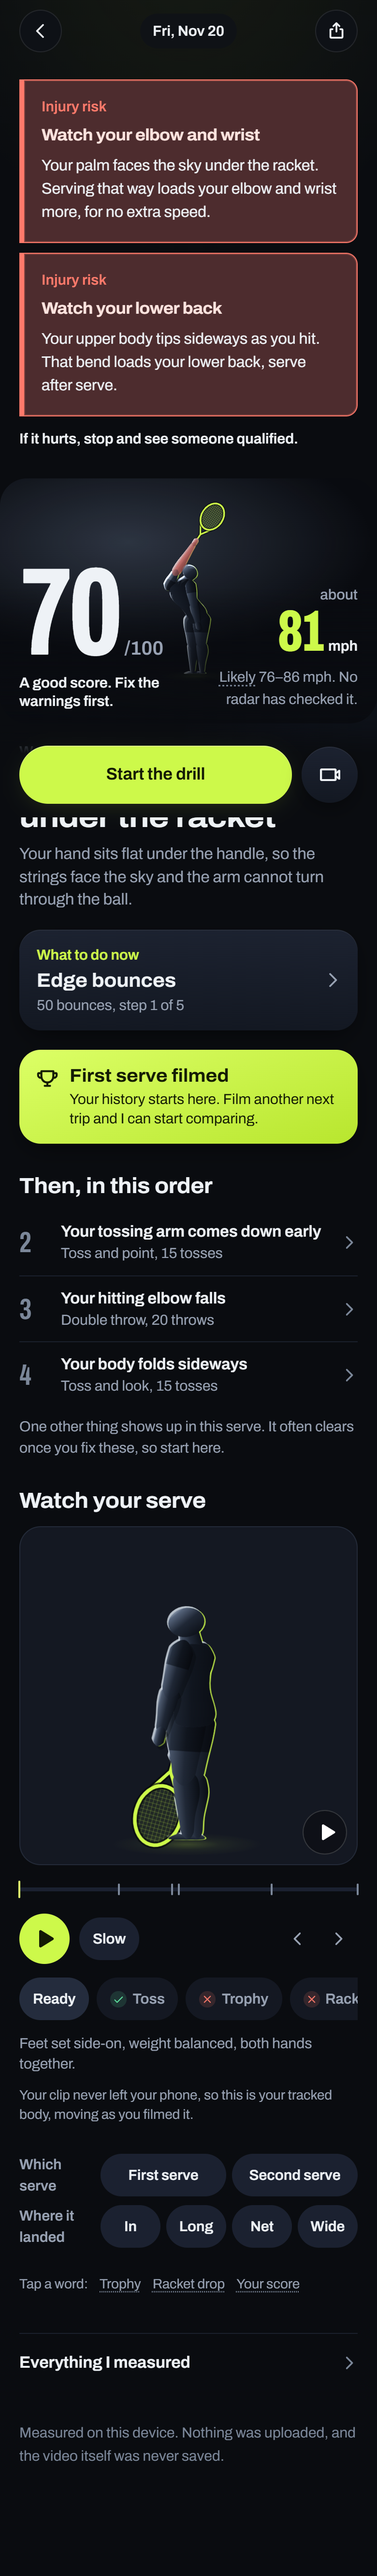
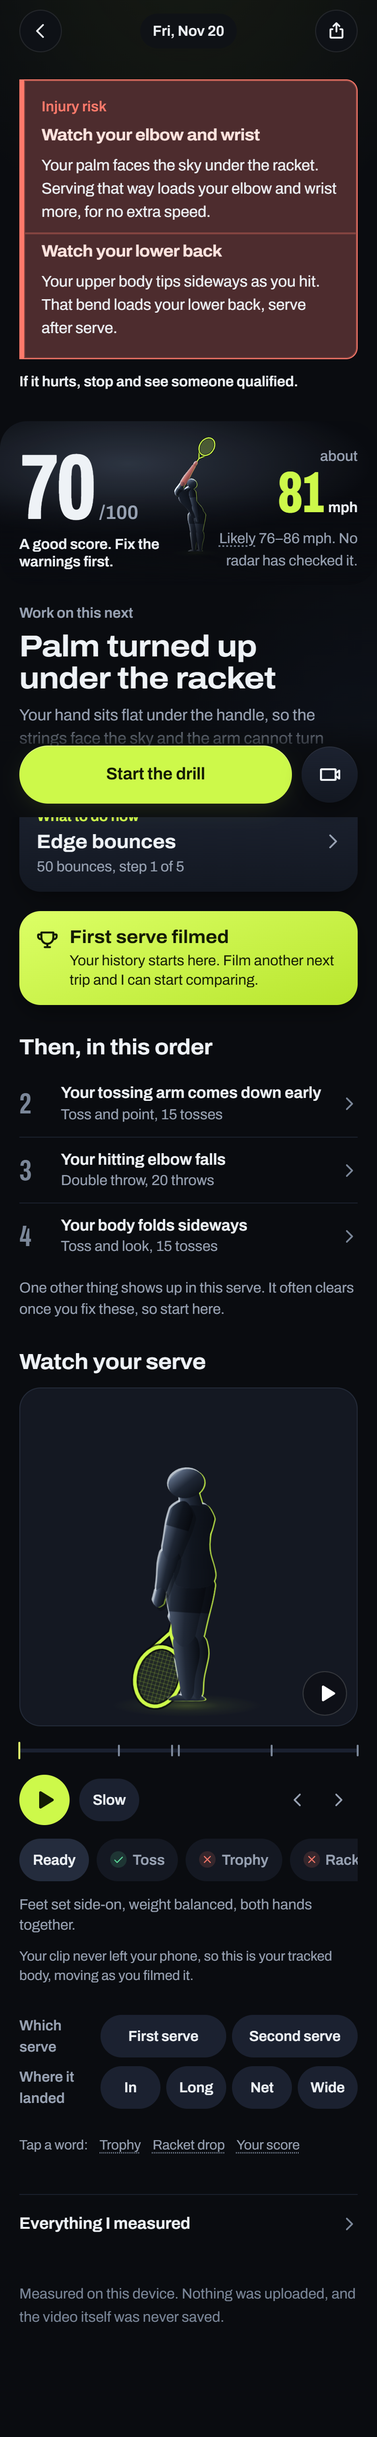
Keep the fix clear of the action bar under two injury warnings on a phone, and keep every figure on the same line as its unit

diff --git a/src/lib/__tests__/speedCopy.test.ts b/src/lib/__tests__/speedCopy.test.ts
@@ -7,7 +7,7 @@
 import fsUntyped from 'fs'
 // @ts-expect-error - node's path, and this project carries no @types/node
 import pathUntyped from 'path'
-import { SPEED_MISS_LINE, SPEED_SCALE, defaultSpeedUnit, fastestLine, serveNumberSpeedLine, speedFigures, speedGlanceLine, speedTrendLine } from '../speedCopy'
+import { SPEED_MISS_LINE, SPEED_SCALE, aboutSpeed, aboutSpeedShort, defaultSpeedUnit, fastestLine, serveNumberSpeedLine, speedFigures, speedGlanceLine, speedTrendLine } from '../speedCopy'
 import { cueIssues } from '../analysis/voice'
 import { assert, check, heading, report } from '../analysis/__tests__/harness'
 
@@ -60,9 +60,21 @@ check('a reading off either end of the scale is drawn at the end, not past it', 
   assert(f.at.low === 1 && f.at.best === 1 && f.at.high === 1, JSON.stringify(f.at))
 })
 
+/** A line as read, with the unbreakable space between a figure and its unit shown as a space. */
+const plain = (s: string) => s.replace(/\u00a0/g, ' ')
+
 check('the glance says the reading and its range in one line', () => {
   const line = speedGlanceLine(speedFigures({ ms: 36.1, low: 34.04, high: 38.36 }, 'kmh'))
-  assert(line === 'About 130 km/h off the racket, likely 122–139.', line)
+  assert(plain(line) === 'About 130 km/h off the racket, likely 122–139.', line)
+})
+
+check('a figure and its unit never break across a line (N7.8)', () => {
+  const s = { ms: 36.1, low: 34.04, high: 38.36 }
+  for (const unit of ['kmh', 'mph'] as const) {
+    for (const line of [speedGlanceLine(speedFigures(s, unit)), aboutSpeed(s, unit), aboutSpeedShort(s, unit)]) {
+      assert(/\d\u00a0(km\/h|mph)/.test(line) && !/\d (km\/h|mph)/.test(line), `"${line}" can break between the figure and its unit`)
+    }
+  }
 })
 
 heading('A reading beside the coaching, never part of it')
@@ -99,10 +111,10 @@ heading('Speed over time, in words (N2.8)')
 check('the record, the trend and the two serves each say their ranges, in the player’s unit', () => {
   const a = { ms: 36.1, low: 34.04, high: 38.36 }
   const b = { ms: 40, low: 38.5, high: 41.6 }
-  assert(fastestLine({ ...a, isNew: true }, 'kmh') === 'New fastest serve: about 130 km/h, likely 122–139.', fastestLine({ ...a, isNew: true }, 'kmh'))
-  assert(fastestLine({ ...a, isNew: false }, 'mph').startsWith('Fastest serve: about 81 mph'), 'the standing record reads as new')
+  assert(plain(fastestLine({ ...a, isNew: true }, 'kmh')) === 'New fastest serve: about 130 km/h, likely 122–139.', fastestLine({ ...a, isNew: true }, 'kmh'))
+  assert(plain(fastestLine({ ...a, isNew: false }, 'mph')).startsWith('Fastest serve: about 81 mph'), 'the standing record reads as new')
   const t = speedTrendLine({ direction: 'faster', now: b, then: a }, 'kmh')
-  assert(t === 'Serving faster than your last trip: about 144 km/h, likely 138–150, against about 130 km/h, likely 122–139.', t)
+  assert(plain(t) === 'Serving faster than your last trip: about 144 km/h, likely 138–150, against about 130 km/h, likely 122–139.', t)
   const slow = serveNumberSpeedLine({ first: b, second: a, direction: 'slower' }, 'kmh')
   assert(!/fault|too slow/i.test(slow) && slow.startsWith('First serves about 144'), slow)
   assert(serveNumberSpeedLine({ first: a, second: b, direction: 'faster' }, 'kmh').endsWith('Your second serve is the quicker one.'), 'a quicker second serve is not said')

diff --git a/src/screens/Report.tsx b/src/screens/Report.tsx
@@ -24,7 +24,7 @@ import type { Moment } from '../lib/moments'
 import { earcon } from '../lib/earcon'
 import MomentCard from '../components/MomentCard'
 import { useCountUp } from '../components/useCountUp'
-import { SPEED_MISS_LINE, defaultSpeedUnit, speedFigures } from '../lib/speedCopy'
+import { NBSP, SPEED_MISS_LINE, defaultSpeedUnit, speedFigures } from '../lib/speedCopy'
 import { SOFT_READ, readQuality, VERDICT } from '../components/statusLabels'
 import ModelServe from '../components/ModelServe'
 import Term from '../components/Term'
@@ -501,7 +501,7 @@ export default function Report({
 
       <section className="hero" data-settled={settled || !fresh ? 'true' : 'false'}>
         <div
-          className={`hero-stage${injuries.length ? ' hero-stage--short' : ''}${studio ? ' hero-stage--panel' : ''}`}
+          className={`hero-stage${injuries.length ? ' hero-stage--short' : ''}${injuries.length > 1 ? ' hero-stage--shorter' : ''}${studio ? ' hero-stage--panel' : ''}`}
           onClick={() => setSettled(true)}
         >
           {fresh && !settled && !studio && (
@@ -539,11 +539,15 @@ export default function Report({
                 <p className="hero-speed-figure">
                   <span className="hero-speed-about">about</span>
                   <span className="hero-speed-line">
-                    <strong>{figures.best}</strong> {figures.unit}
+                    <strong>{figures.best}</strong>
+                    {NBSP}
+                    {figures.unit}
                   </span>
                 </p>
                 <p className="hero-speed-range">
-                  <Term id="likelyRange">Likely</Term> {figures.low}–{figures.high} {figures.unit}. No radar has checked it.
+                  <Term id="likelyRange">Likely</Term> {figures.low}–{figures.high}
+                  {NBSP}
+                  {figures.unit}. No radar has checked it.
                 </p>
               </section>
             )}

diff --git a/src/lib/__tests__/engineDownload.test.ts b/src/lib/__tests__/engineDownload.test.ts
@@ -241,15 +241,15 @@ check('settings says the size, the bar in megabytes, and the warning before the 
   const noop = () => {}
   const row = (ready: boolean, warming?: OfflineWarmup, metered?: 'saveData' | 'cellular') =>
     renderToStaticMarkup(createElement(OfflineRow, { ready, warming, metered, onDownload: noop }))
-  assert(row(false).includes('Download for no signal, 57 MB'), 'the button lost its size')
-  assert(row(false, { stage: 'downloading', ratio: 0.4, loadedMb: 23, totalMb: 57 }).includes('Downloading, 23 of 57 MB'), 'the bar is not in megabytes')
+  assert(row(false).includes('Download for no signal, 57\u00a0MB'), 'the button lost its size')
+  assert(row(false, { stage: 'downloading', ratio: 0.4, loadedMb: 23, totalMb: 57 }).includes('Downloading, 23 of 57\u00a0MB'), 'the bar is not in megabytes')
   assert(row(false, { stage: 'failed', stalled: true }).includes('The download stopped. Try again'), 'a stall reads as a refusal')
   assert(row(false, undefined, 'cellular').includes('wait for Wi-Fi'), 'no warning on mobile data')
   assert(row(true).includes('Ready to use with no signal'), 'a downloaded coach does not say so')
   const first = renderToStaticMarkup(
     createElement(Home, { sessions: [], offlineReady: false, sessionsLoaded: true, prefs: DEFAULTS, onPrefs: noop, onFilm: noop, onOpen: noop, onShowHistory: noop, onShowSettings: noop, onShowProgress: noop, onShowExample: noop }),
   )
-  assert(first.includes('downloads the coach once, 57 MB'), 'a new player is not told the size before the first serve')
+  assert(first.includes('downloads the coach once, 57\u00a0MB'), 'a new player is not told the size before the first serve')
 })
 
 report()

diff --git a/src/components/AppSheets.tsx b/src/components/AppSheets.tsx
@@ -4,7 +4,7 @@ import '../styles/blocks.css'
 import HandednessPicker from './HandednessPicker'
 import { Icon, Sheet } from './primitives'
 import { engineMegabytes } from '../lib/engineManifest'
-import { defaultSpeedUnit } from '../lib/speedCopy'
+import { NBSP, defaultSpeedUnit } from '../lib/speedCopy'
 import type { OfflineWarmup } from './useOfflineWarmup'
 import { writePrefs, type Prefs } from '../lib/storage/prefs'
 import { deviceNoun } from '../lib/device'
@@ -51,7 +51,7 @@ export function OfflineRow({ ready, warming, metered, onDownload }: Props['offli
   const label =
     warming?.stage === 'downloading'
       ? warming.totalMb
-        ? `Downloading, ${warming.loadedMb ?? 0} of ${warming.totalMb} MB`
+        ? `Downloading, ${warming.loadedMb ?? 0} of ${warming.totalMb}${NBSP}MB`
         : `Downloading, ${Math.round((warming.ratio ?? 0) * 100)}%`
       : warming?.stage === 'starting'
         ? 'Setting up'
@@ -61,7 +61,7 @@ export function OfflineRow({ ready, warming, metered, onDownload }: Props['offli
             : 'Download failed. Try again'
           : warming?.stage === 'unkept'
             ? 'This browser will not keep the download'
-            : `Download for no signal, ${size} MB`
+            : `Download for no signal, ${size}${NBSP}MB`
   return (
     <>
       <button className="btn btn--ghost btn--full" onClick={onDownload} disabled={busy}>

diff --git a/src/lib/speedCopy.ts b/src/lib/speedCopy.ts
@@ -77,9 +77,15 @@ export function speedSpokenLine(f: Pick<SpeedFigures, 'best'>, unit: SpeedUnit):
   return `About ${f.best} ${UNIT_SPOKEN[unit]}.`
 }
 
+/**
+ * The space between a figure and its unit, which never breaks (N7.8): "81" at
+ * the end of one line and "mph" at the start of the next reads as two things.
+ */
+export const NBSP = '\u00a0'
+
 /** The glance's line for a reading. */
 export function speedGlanceLine(f: SpeedFigures): string {
-  return `About ${f.best} ${f.unit} off the racket, likely ${f.low}–${f.high}.`
+  return `About ${f.best}${NBSP}${f.unit} off the racket, likely ${f.low}–${f.high}.`
 }
 
 type Ranged = Pick<ServeSpeed, 'ms' | 'low' | 'high'>
@@ -87,13 +93,13 @@ type Ranged = Pick<ServeSpeed, 'ms' | 'low' | 'high'>
 /** A reading as "about 130 km/h, likely 122–139". */
 export function aboutSpeed(s: Ranged, unit: SpeedUnit): string {
   const f = speedFigures(s, unit)
-  return `about ${f.best} ${f.unit}, likely ${f.low}–${f.high}`
+  return `about ${f.best}${NBSP}${f.unit}, likely ${f.low}–${f.high}`
 }
 
 /** A reading as a short label: "81 mph". */
 export function aboutSpeedShort(s: Ranged, unit: SpeedUnit = defaultSpeedUnit()): string {
   const f = speedFigures(s, unit)
-  return `${f.best} ${f.unit}`
+  return `${f.best}${NBSP}${f.unit}`
 }
 
 /** The fastest serve on record, on Progress (N2.8). */

diff --git a/src/components/__tests__/render.test.ts b/src/components/__tests__/render.test.ts
@@ -771,7 +771,7 @@ check('before storage answers, a returning player is not invited to see an examp
     }),
   )
   assert(!out.includes('See a sample report'), 'the first run flashed before the history loaded')
-  assert(!out.includes(' MB'), 'a download was mentioned before the cache was asked')
+  assert(!/\d[ \u00a0]MB/.test(out), 'a download was mentioned before the cache was asked')
 })
 
 check('the home screen renders with a history behind it', () => {
@@ -965,7 +965,7 @@ check('the first run says the download with its size, only while it is needed (N
         onShowExample: noop,
       }),
     )
-  assert(/downloads the coach once, \d+ MB/.test(first(false)), 'the download was not said with its size')
+  assert(/downloads the coach once, \d+\u00a0MB/.test(first(false)), 'the download was not said with its size')
   assert(!first(true).includes('downloads the coach'), 'said a download already stored')
   assert(!first(undefined).includes('downloads the coach'), 'said a download before the cache answered')
 })

diff --git a/src/screens/Home.tsx b/src/screens/Home.tsx
@@ -11,7 +11,7 @@ import { SAMPLE_PEEK } from '../lib/samplePeek'
 import { practiceHeadline, type PracticeFocus } from '../lib/practice'
 import { faultForMetric } from '../lib/analysis/progressions'
 import { fastestServe } from '../lib/speedTrend'
-import { defaultSpeedUnit, speedFigures } from '../lib/speedCopy'
+import { NBSP, defaultSpeedUnit, speedFigures } from '../lib/speedCopy'
 import type { ServeTag, Session } from '../lib/storage/db'
 import { tagsById } from '../lib/storage/db'
 import type { TripRecord } from '../lib/storage/ledger'
@@ -216,7 +216,7 @@ export default function Home({
         </div>
         <p className="first-foot">
           Your video never leaves this {deviceNoun()}.
-          {offlineReady === false ? ` Your first serve downloads the coach once, ${engineMegabytes()} MB.` : ''}
+          {offlineReady === false ? ` Your first serve downloads the coach once, ${engineMegabytes()}${NBSP}MB.` : ''}
         </p>
         {storage}
       </div>

diff --git a/src/components/PosePlayer.tsx b/src/components/PosePlayer.tsx
@@ -6,7 +6,7 @@ import type { RacketEstimate } from '../lib/analysis/racket'
 import type { Analysis, Frame, PhaseId } from '../lib/analysis/types'
 import { levelFlight } from '../lib/vision/ballTrack'
 import { type Ghost, drawSkeleton, drawStruckBall, fitContain, ghostFor } from '../lib/pose/skeleton'
-import { defaultSpeedUnit, speedFigures } from '../lib/speedCopy'
+import { NBSP, defaultSpeedUnit, speedFigures } from '../lib/speedCopy'
 import { readPrefs } from '../lib/storage/prefs'
 import '../styles/speed.css'
 import type { ServeSpeed } from '../lib/vision/serveSpeed'
@@ -802,7 +802,9 @@ function SpeedTag({ speed, at, aspect }: { speed: ServeSpeed; at: { x: number; y
   return (
     <p className="speed-tag" style={{ left: `${left}%`, top: `${top}%` }}>
       <strong>
-        {f.best} {f.unit}
+        {f.best}
+        {NBSP}
+        {f.unit}
       </strong>
       <span>
         likely {f.low}–{f.high}

diff --git a/docs/lift/next-gallery.html b/docs/lift/next-gallery.html
@@ -109,7 +109,7 @@ a:focus-visible { outline: 2px solid #cdf94a; outline-offset: 2px; border-radius
   <h3>A strain warning</h3>
   <div class="pair">
     <figure><a href="next-before/13-report-injury-full.png"><img loading="lazy" src="next-before/13-report-injury.png" alt="Before: A strain warning"></a><figcaption><strong>Before</strong> 3.1 screens, 35 controls, 260 words</figcaption></figure>
-    <figure><a href="next-after/13-report-injury-full.png"><img loading="lazy" src="next-after/13-report-injury.png" alt="After: A strain warning"></a><figcaption><strong>After</strong> 3.2 screens, 36 controls, 279 words</figcaption></figure>
+    <figure><a href="next-after/13-report-injury-full.png"><img loading="lazy" src="next-after/13-report-injury.png" alt="After: A strain warning"></a><figcaption><strong>After</strong> 3 screens, 36 controls, 277 words</figcaption></figure>
   </div>
 </article>
 <article>

diff --git a/src/styles/depth.css b/src/styles/depth.css
@@ -627,6 +627,28 @@
  * document" and "first thing you see" two different orderings.
  */
 /* Under the cards, in plain ink: the one instruction every warning shares. */
+/*
+ * Two warnings read as one block on a phone (N7.8): one label and one edge,
+ * so the fix still reaches the first screen under them. Each keeps its own
+ * title and words. A laptop sets them side by side instead (wide.css).
+ */
+.injuries > .injury:has(+ .injury) {
+  padding-bottom: 10px;
+  border-bottom-width: 0;
+  border-radius: 0 var(--r-sm) 0 0;
+}
+
+.injuries > .injury + .injury {
+  margin-top: -10px;
+  padding-top: 8px;
+  border-top-width: 0;
+  border-radius: 0 0 var(--r-sm) 0;
+}
+
+.injuries > .injury + .injury .injury-label {
+  display: none;
+}
+
 .injury-stop {
   margin: 2px 0 0;
   font-size: 15px;

diff --git a/src/styles/report.css b/src/styles/report.css
@@ -55,13 +55,24 @@
   background: var(--stage);
 }
 
-/* Under injury warnings the picture gives way (N7.6), so the fix still starts
-   on a phone's first screen under two of them. */
+/* Under an injury warning the picture gives way (N7.6), so the fix comes up
+   the first screen of a phone. */
 .hero-stage--short {
   height: min(30dvh, 260px);
   min-height: 210px;
   margin-top: 0;
   border-radius: var(--r-xl);
+}
+
+/* Under two warnings it gives way further (N7.8): the number still fits, and
+   the fix and its drill clear the action bar on a phone. */
+.hero-stage--shorter {
+  height: min(20dvh, 172px);
+  min-height: 160px;
+}
+
+.hero-stage--shorter .t-score {
+  font-size: 96px;
 }
 
 .stage-empty {

diff --git a/src/styles/wide.css b/src/styles/wide.css
@@ -283,6 +283,20 @@
     grid-column: 1 / -1;
   }
 
+  /* Side by side here, so each warning is its own card again (N7.8). */
+  .report > .injuries > .injury:has(+ .injury),
+  .report > .injuries > .injury + .injury {
+    margin-top: 0;
+    padding: 18px 18px 19px;
+    border-top-width: 1px;
+    border-bottom-width: 1px;
+    border-radius: 0 var(--r-sm) var(--r-sm) 0;
+  }
+
+  .report > .injuries > .injury + .injury .injury-label {
+    display: revert;
+  }
+
   /* An injury warning leads the right pane, above the number (N7.1): the
      review studio had pulled the number and the fix up and left the warnings
      below them, under the first screen. */
